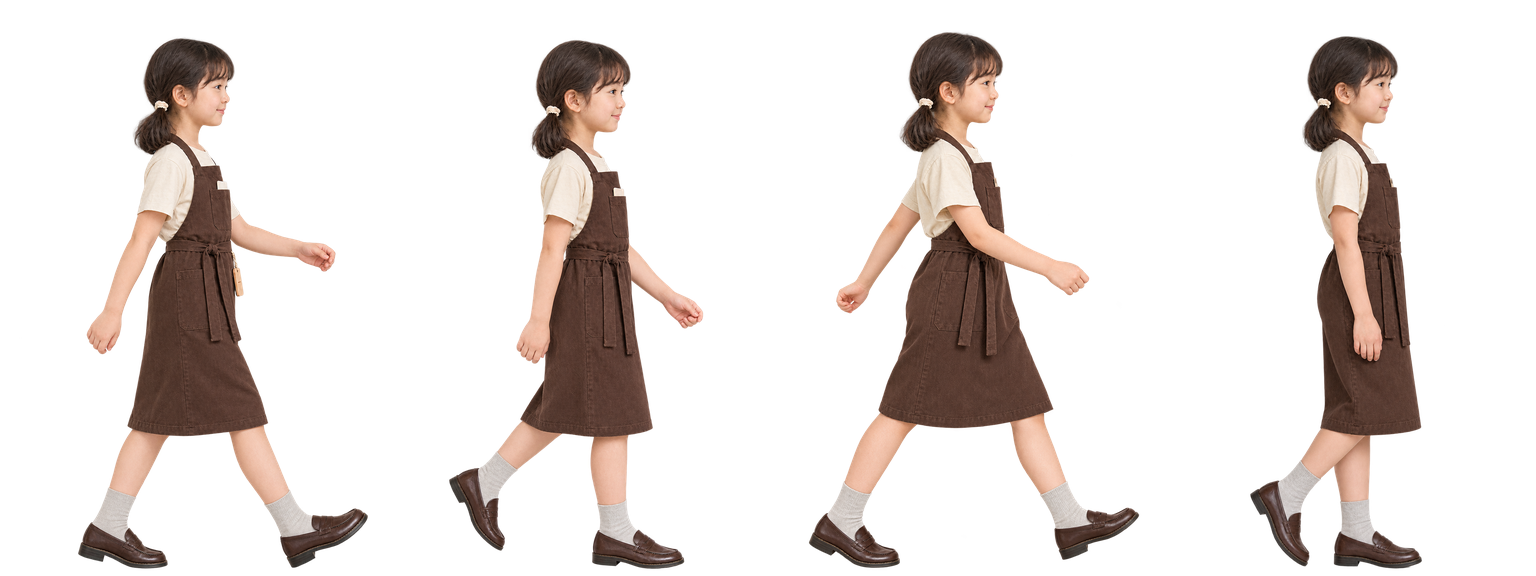
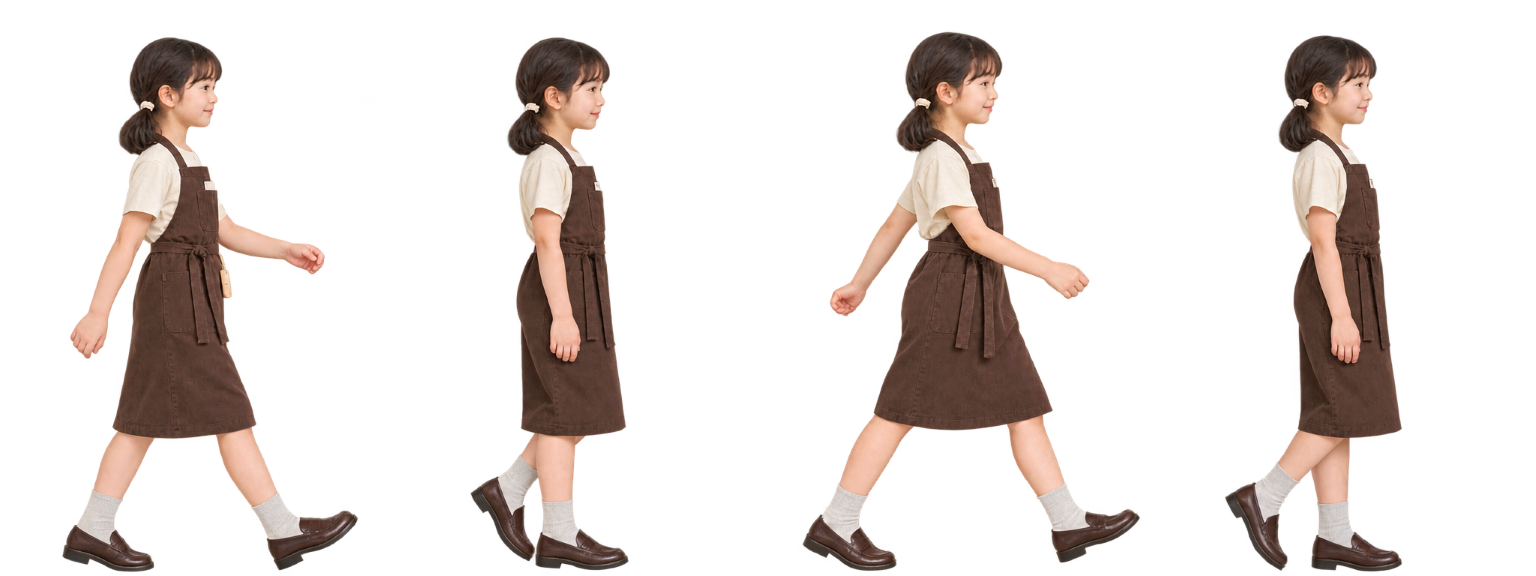
feat(pets): 内置形象动作帧整批重出 + 小满 sleep 补第二套
素材重出之后逐点核对了 pet.json，**没有任何一处需要跟着改**：

- 所有 sheet 的几何都没变（1536×576 横排 4 帧 / 1152×576 三帧 / 768×576 两帧，
  小卡 sleep 仍是 627×1412 竖排 4 帧），因此 `frames` / `layout` / `size` 不动。
- `anchor` 也不动：逐帧量过「实心像素底沿」在帧内的位置，新旧版吻合
  （站姿各行极差 0~2px）。改锚点反而会让宠物离地或陷进地面。
- 眨眼重新核对：小满 `idle.png` 的**第 2 帧仍是闭眼笑眼**（0/1/3 睁眼），
  所以 `"blink": {"frames": [2]}` 依然正确；小满 `idle-v2.png` 与小卡两张待机图
  四帧全睁眼，仍然都不该配眨眼。
- 目录里没有孤儿图（13 张全被引用），也没有引用了却不存在的 sheet。

本次真正补的是小满的 `sleep` 第二套：

- `sleep.png`（`weight: 5`）+ 新增的 **`sleep-v2.png`**（`weight: 2`）。
  两者 `frames` / `fps` / `frameMs` 完全相同，只有画面不同 —— 睡着了偶尔
  换个睡姿（v2 的第 1 帧是睁眼抬头一下再睡回去）。命名沿用多套规范（`-v2`）。
- 运行期核对：`sleep` 下发 2 个变体、URL 分别是 `?v=` 与 `?vi=1&v=`，
  权重 5 / 2，`decodeBytes` 各 3.5 MB（与单套时相同，变体是按次抽一个播）。

同时把素材版本这件事写进文档：CHANGELOG（变更一节）、README §1 内置形象、
`docs/CHARACTER_XIAOMAN.md` 的动作表与眨眼说明。

测试：pytest 928 passed（唯一失败 `test_schedule_for_a_builtin_pet_stays_in_settings`
是既有问题——它读的是旧字段名 `schedule.idle.intervalMs`，与本次改动无关）。

diff --git a/CHANGELOG.md b/CHANGELOG.md
@@ -4,6 +4,23 @@
 
 ## [未发布]
 
+### 变更
+
+**内置形象的动作帧素材整批重出**
+
+- 小满与小卡的 12 个动作重画了一遍（另有小满新增的 `sleep-v2.png`）。
+  所有 sheet 的**几何都没变**（1536×576 横排 4 帧等），因此 `frames` /
+  `layout` / `size` / `anchor` 一个都不用改——`anchor` 尤其值得说一句：
+  重出之后每张图「脚底在帧内的位置」与旧版逐帧吻合（站姿各行极差 0~2px），
+  改锚点反而会让宠物离地或陷进地面。
+- 逐帧核对过闭眼帧：**小满 idle 的第 2 帧仍是闭眼笑眼**（0/1/3 睁眼），
+  因此 `"blink": {"frames": [2]}` 依然正确；小满 `idle-v2` 与小卡两张待机图
+  四帧全睁眼，都不配眨眼。
+- 小满的 `sleep` 挂上第二套：`sleep.png`（`weight: 5`）+ **`sleep-v2.png`**
+  （`weight: 2`）。两者的 `frames` / `fps` / `frameMs` 相同，只有画面不同，
+  因此睡着了偶尔换个睡姿，醒一次换一个样。文件命名沿用多套规范（`-v2` 后缀）。
+- 素材重出**没有**留下孤儿文件，也没有引用了却不存在的 sheet（逐点核对）。
+
 ### 新增
 
 **眨眼的间隔与时长能在面板里调了**
@@ -27,6 +44,7 @@
 - 只取第 2 帧、**不取 `[2, 3]`**：第 3 帧是睁眼帧（等于把睁眼当眨眼），
   而且在标准图像那条路径上「轮流用帧」会被重置（见下），写多个只会取第一个。
 - 第二套 idle（`idle-v2.png`）四帧全是睁眼（转头张望），**不能加眨眼**——它没有闭眼帧。
+  （素材后来整批重出，这一条重新核对过，结论不变，见上方「动作帧素材整批重出」。）
 
 ### 修复
 

diff --git a/README.md b/README.md
@@ -47,6 +47,9 @@ ST-Manager 官方插件：一只常驻在界面上的桌面宠物。它会随宿
 **idle 的随机触发**（平时静止，6~18 秒随机动一下）、
 **idle 的两套动画**（待机 `weight 5` / 张望 `weight 2`，按权重随机播）、
 以及**显式的标准图像**（`still` → 待机首帧）。
+小满的 `sleep` 也是两套（`sleep.png` `weight 5` + `sleep-v2.png` `weight 2`，
+两套的 `frames` / `fps` / `frameMs` 相同，只有画面不同）。
+小满的 idle 第一套还开了**眨眼**（第 2 帧是闭眼笑眼）。
 
 > 最后一项是**必须**的：它们的 idle 挂了两套动画，而「张望」的首帧是个
 > **抬头看**的姿势。不声明 `still` 的话，随机播到张望之后宠物会卡在那个
